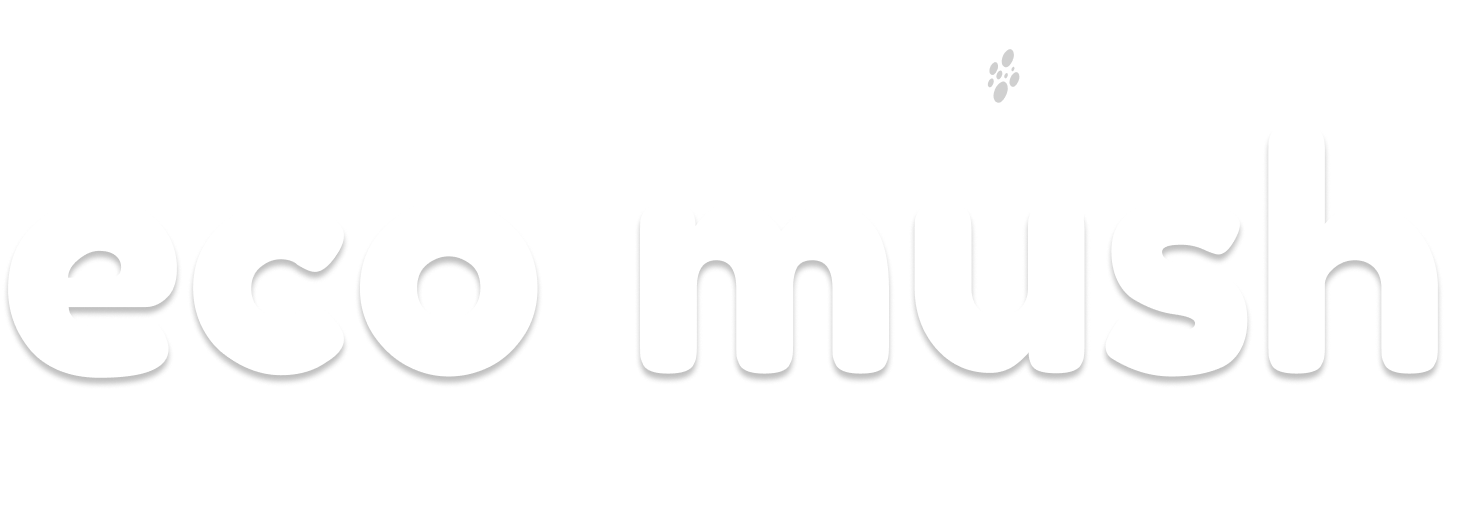
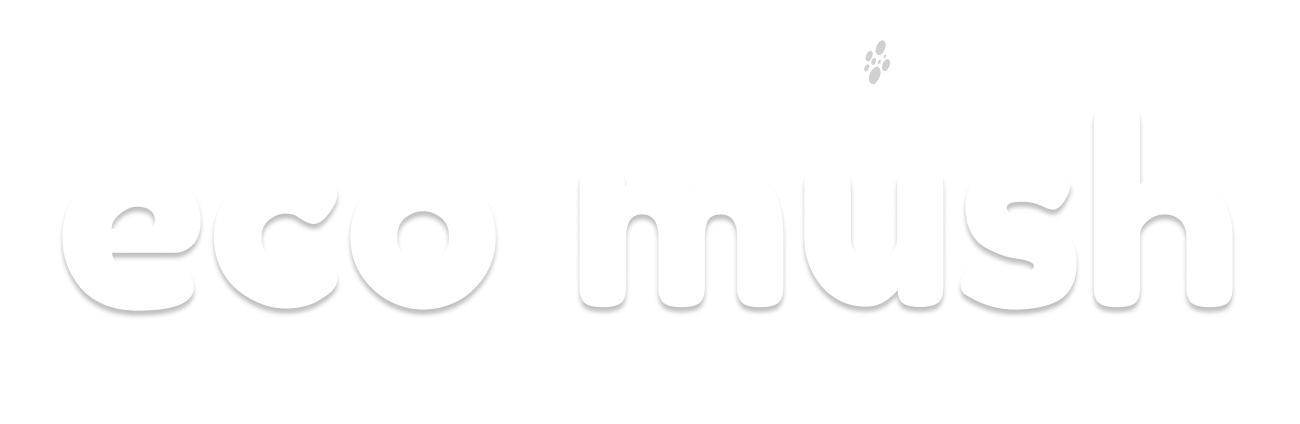
update hero image, journey contn

diff --git a/src/components/Recipes.jsx b/src/components/Recipes.jsx
@@ -1,5 +1,9 @@
 import React, { useState, useRef, useEffect } from 'react';
 import useScrollAnimation from '../hooks/useScrollAnimation';
+import cutletImage from '../assets/recipe/Cutlet.png';
+import momosImage from '../assets/recipe/Momos.png';
+import samosaImage from '../assets/recipe/samosa.png';
+import rollsImage from '../assets/recipe/Rolls.png';
 import './Recipes.css';
 
 const RecipeCard = ({ recipe, index, openRecipeModal }) => {
@@ -209,6 +213,120 @@ const Recipes = () => {
         "വെള്ളം വറ്റിയാൽ ഇറക്കി എടുക്കുക"
       ],
       youtubeVideo: "https://www.youtube.com/embed/IYPuWewIAto"
+    },
+    {
+      id: 7,
+      title: "മഷ്റൂം കട്ലറ്റ് (Mushroom Cutlet)",
+      description: "Crispy and delicious mushroom cutlets.",
+      image: cutletImage,
+      tags: ["Snack", "Crispy"],
+      ingredients: [
+        "മഷ്റൂം – 250 ഗ്രാം",
+        "ഉരുളക്കിഴങ്ങ് – 2 എണ്ണം (വേവിച്ചത്)",
+        "ഉള്ളി – 1 എണ്ണം (നരിഞ്ഞത്)",
+        "ഇഞ്ചി വെളുത്തുള്ളി പേസ്റ്റ് – 1 ടീസ്പൂൺ",
+        "മുളകുപൊടി – 1 ടീസ്പൂൺ",
+        "ഗരം മസാല – ½ ടീസ്പൂൺ",
+        "മഞ്ഞൾപൊടി – ¼ ടീസ്പൂൺ",
+        "ബ്രെഡ് ക്രമ്പ് – വേണ്ടത്ര",
+        "മുട്ട – 1-2 എണ്ണം",
+        "ഉപ്പ്, എണ്ണ"
+      ],
+      steps: [
+        "മഷ്റൂം കഴുകി നന്നായി അരിഞ്ഞ് വെയ്ക്കുക",
+        "വേവിച്ച ഉരുളക്കിഴങ്ങ് ചതച്ച് വെയ്ക്കുക",
+        "പാനിൽ എണ്ണ ചൂടാക്കി ഉള്ളി വറുത്ത് ഇഞ്ചി വെളുത്തുള്ളി പേസ്റ്റ് ചേർക്കുക",
+        "മഷ്റൂം ചേർത്ത് വേവിച്ച് മസാലകൾ ചേർത്ത് നന്നായി ഇളക്കുക",
+        "ഉരുളക്കിഴങ്ങും ചേർത്ത് നന്നായി ഇളക്കി കട്ലറ്റ് മിശ്രിതം തയ്യാറാക്കുക",
+        "ചെറിയ കട്ലറ്റ് ആകൃതിയിൽ ഉണ്ടാക്കി മുട്ടയിൽ മുക്കി ബ്രെഡ് ക്രമ്പിൽ ഉരുട്ടുക",
+        "എണ്ണയിൽ നന്നായി വറുത്ത് ഇറക്കി എടുക്കുക"
+      ],
+      youtubeVideo: "https://www.youtube.com/embed/OC9vBqS-6xw"
+    },
+    {
+      id: 8,
+      title: "മഷ്റൂം മോമോസ് (Mushroom Momos)",
+      description: "Steamed dumplings with mushroom filling.",
+      image: momosImage,
+      tags: ["Steamed", "Dumpling"],
+      ingredients: [
+        "മഷ്റൂം – 200 ഗ്രാം",
+        "അല്ലൂ പൊടി – 2 കപ്പ്",
+        "ഉള്ളി – 1 എണ്ണം (നരിഞ്ഞത്)",
+        "ഇഞ്ചി – 1 ടീസ്പൂൺ (നരിഞ്ഞത്)",
+        "വെളുത്തുള്ളി – 2-3 പൊത്ത് (നരിഞ്ഞത്)",
+        "പച്ചമുളക് – 1-2 എണ്ണം",
+        "സോയ സോസ് – 1 ടീസ്പൂൺ",
+        "ഉപ്പ്, കുരുമുളക് പൊടി"
+      ],
+      steps: [
+        "അല്ലൂ പൊടിയിൽ വെള്ളം ചേർത്ത് മൃദുവായ കുഴച്ചുമാറ്റം തയ്യാറാക്കുക",
+        "മഷ്റൂം കഴുകി നന്നായി അരിഞ്ഞ് വെയ്ക്കുക",
+        "പാനിൽ എണ്ണ ചൂടാക്കി ഉള്ളി, ഇഞ്ചി, വെളുത്തുള്ളി വറുക്കുക",
+        "മഷ്റൂം, പച്ചമുളക്, സോയ സോസ്, ഉപ്പ്, കുരുമുളക് പൊടി എന്നിവ ചേർത്ത് നന്നായി വേവിക്കുക",
+        "കുഴച്ചുമാറ്റത്തിൽ നിന്ന് ചെറിയ പാട്ടികൾ എടുത്ത് മഷ്റൂം മിശ്രിതം നിറച്ച് മോമോസ് ആകൃതിയിൽ ഉണ്ടാക്കുക",
+        "സ്റ്റീമറിൽ 10-12 മിനിറ്റ് വേവിക്കുക",
+        "ചൂടോടെ സോസുമായി വിളമ്പുക"
+      ],
+      youtubeVideo: "https://www.youtube.com/embed/WpZ3ym4M--Q"
+    },
+    {
+      id: 9,
+      title: "മഷ്റൂം സമോസ (Mushroom Samosa)",
+      description: "Crispy samosas with mushroom filling.",
+      image: samosaImage,
+      tags: ["Snack", "Fried"],
+      ingredients: [
+        "മഷ്റൂം – 200 ഗ്രാം",
+        "മൈദ – 2 കപ്പ്",
+        "ഉള്ളി – 1 എണ്ണം (നരിഞ്ഞത്)",
+        "ഇഞ്ചി വെളുത്തുള്ളി പേസ്റ്റ് – 1 ടീസ്പൂൺ",
+        "മുളകുപൊടി – 1 ടീസ്പൂൺ",
+        "ഗരം മസാല – ½ ടീസ്പൂൺ",
+        "മഞ്ഞൾപൊടി – ¼ ടീസ്പൂൺ",
+        "ധന്യപ്പൊടി – ½ ടീസ്പൂൺ",
+        "ഉപ്പ്, എണ്ണ"
+      ],
+      steps: [
+        "മൈദയിൽ എണ്ണ, ഉപ്പ്, വെള്ളം ചേർത്ത് മൃദുവായ കുഴച്ചുമാറ്റം തയ്യാറാക്കുക",
+        "മഷ്റൂം കഴുകി നന്നായി അരിഞ്ഞ് വെയ്ക്കുക",
+        "പാനിൽ എണ്ണ ചൂടാക്കി ഉള്ളി വറുത്ത് ഇഞ്ചി വെളുത്തുള്ളി പേസ്റ്റ് ചേർക്കുക",
+        "മഷ്റൂം ചേർത്ത് വേവിച്ച് മസാലകൾ ചേർത്ത് നന്നായി വറുത്ത് ഇറക്കി എടുക്കുക",
+        "കുഴച്ചുമാറ്റത്തിൽ നിന്ന് ചെറിയ പാട്ടികൾ എടുത്ത് മഷ്റൂം മിശ്രിതം നിറച്ച് സമോസ ആകൃതിയിൽ ഉണ്ടാക്കുക",
+        "എണ്ണയിൽ നന്നായി വറുത്ത് സ്വർണ്ണനിറമാകുന്നത് വരെ വേവിക്കുക",
+        "ചൂടോടെ ചട്നിയുമായി വിളമ്പുക"
+      ],
+      youtubeVideo: "https://www.youtube.com/embed/_sIzNPIYOFM"
+    },
+    {
+      id: 10,
+      title: "മഷ്റൂം റോള്സ് (Mushroom Rolls)",
+      description: "Delicious mushroom rolls with crispy outer layer.",
+      image: rollsImage,
+      tags: ["Snack", "Roll"],
+      ingredients: [
+        "മഷ്റൂം – 200 ഗ്രാം",
+        "പറോട്ട – 8-10 എണ്ണം",
+        "ഉള്ളി – 1 എണ്ണം (നരിഞ്ഞത്)",
+        "ഇഞ്ചി വെളുത്തുള്ളി പേസ്റ്റ് – 1 ടീസ്പൂൺ",
+        "മുളകുപൊടി – 1 ടീസ്പൂൺ",
+        "ഗരം മസാല – ½ ടീസ്പൂൺ",
+        "മഞ്ഞൾപൊടി – ¼ ടീസ്പൂൺ",
+        "ധന്യപ്പൊടി – ½ ടീസ്പൂൺ",
+        "മുട്ട – 1-2 എണ്ണം",
+        "ബ്രെഡ് ക്രമ്പ് – വേണ്ടത്ര",
+        "ഉപ്പ്, എണ്ണ"
+      ],
+      steps: [
+        "മഷ്റൂം കഴുകി നന്നായി അരിഞ്ഞ് വെയ്ക്കുക",
+        "പാനിൽ എണ്ണ ചൂടാക്കി ഉള്ളി വറുത്ത് ഇഞ്ചി വെളുത്തുള്ളി പേസ്റ്റ് ചേർക്കുക",
+        "മഷ്റൂം ചേർത്ത് വേവിച്ച് മസാലകൾ ചേർത്ത് നന്നായി വറുത്ത് ഇറക്കി എടുക്കുക",
+        "പോറോട്ടയിൽ മഷ്റൂം മിശ്രിതം നിറച്ച് റോൾ ആകൃതിയിൽ ഉണ്ടാക്കുക",
+        "മുട്ടയിൽ മുക്കി ബ്രെഡ് ക്രമ്പിൽ ഉരുട്ടുക",
+        "എണ്ണയിൽ നന്നായി വറുത്ത് സ്വർണ്ണനിറമാകുന്നത് വരെ വേവിക്കുക",
+        "ചൂടോടെ കെച്ചപ്പ് സോസുമായി വിളമ്പുക"
+      ],
+      youtubeVideo: "https://www.youtube.com/embed/YztBIZogXIU"
     }
   ];
 

diff --git a/src/components/WhatsAppButton.css b/src/components/WhatsAppButton.css
@@ -4,44 +4,94 @@
   right: 30px;
   width: 56px;
   height: 56px;
-  background: #25D366;
+  background: linear-gradient(135deg, #25D366, #20BA5A);
   color: white;
-  border: none;
+  border: 3px solid rgba(138, 255, 109, 0.9);
   border-radius: 50%;
   cursor: pointer;
   display: flex;
   align-items: center;
   justify-content: center;
-  box-shadow: 0 4px 15px rgba(37, 211, 102, 0.4);
+  box-shadow: 0 4px 20px rgba(37, 211, 102, 0.5), 0 0 0 0 rgba(37, 211, 102, 0.7);
   z-index: 999;
-  transition: all 0.3s ease;
-  animation: pulse 2s infinite;
+  transition: all 0.3s cubic-bezier(0.4, 0, 0.2, 1);
+  animation: float 3s ease-in-out infinite, pulseGlow 2s ease-in-out infinite;
+  overflow: visible;
+}
+
+.whatsapp-button::before {
+  content: '';
+  position: absolute;
+  top: 50%;
+  left: 50%;
+  width: 100%;
+  height: 100%;
+  border-radius: 50%;
+  background: rgba(255, 255, 255, 0.3);
+  transform: translate(-50%, -50%) scale(0);
+  transition: transform 0.6s ease-out;
+  pointer-events: none;
+}
+
+.whatsapp-button:hover::before {
+  transform: translate(-50%, -50%) scale(1.5);
+  opacity: 0;
 }
 
 .whatsapp-button:hover {
-  background: #20BA5A;
-  transform: translateY(-5px) scale(1.1);
-  box-shadow: 0 6px 20px rgba(37, 211, 102, 0.6);
+  background: linear-gradient(135deg, #20BA5A, #1DA851);
+  border-color: rgba(255, 255, 255, 1);
+  transform: translateY(-8px) scale(1.15) rotate(5deg);
+  box-shadow: 0 8px 30px rgba(37, 211, 102, 0.7), 0 0 20px rgba(37, 211, 102, 0.5);
+  animation: float 3s ease-in-out infinite, pulseGlow 1.5s ease-in-out infinite;
 }
 
 .whatsapp-button:active {
-  transform: translateY(-2px) scale(1.05);
+  transform: translateY(-5px) scale(1.1) rotate(-5deg);
+  box-shadow: 0 4px 15px rgba(37, 211, 102, 0.6);
 }
 
 .whatsapp-button svg {
   width: 28px;
   height: 28px;
+  transition: transform 0.3s ease;
+  filter: drop-shadow(0 2px 4px rgba(0, 0, 0, 0.2));
 }
 
-@keyframes pulse {
-  0% {
-    box-shadow: 0 4px 15px rgba(37, 211, 102, 0.4);
+.whatsapp-button:hover svg {
+  transform: scale(1.1) rotate(-5deg);
+}
+
+@keyframes float {
+  0%, 100% {
+    transform: translateY(0px) translateX(0);
   }
   50% {
-    box-shadow: 0 4px 20px rgba(37, 211, 102, 0.6);
+    transform: translateY(-10px) translateX(0);
   }
-  100% {
-    box-shadow: 0 4px 15px rgba(37, 211, 102, 0.4);
+}
+
+@keyframes pulseGlow {
+  0%, 100% {
+    box-shadow: 0 4px 20px rgba(37, 211, 102, 0.5), 0 0 0 0 rgba(37, 211, 102, 0.7);
+  }
+  50% {
+    box-shadow: 0 4px 25px rgba(37, 211, 102, 0.6), 0 0 0 10px rgba(37, 211, 102, 0);
+  }
+}
+
+@keyframes shake {
+  0%, 100% {
+    transform: translateY(-8px) translateX(0) scale(1.15) rotate(5deg);
+  }
+  25% {
+    transform: translateY(-8px) translateX(-2px) scale(1.15) rotate(-5deg);
+  }
+  50% {
+    transform: translateY(-8px) translateX(0) scale(1.15) rotate(5deg);
+  }
+  75% {
+    transform: translateY(-8px) translateX(2px) scale(1.15) rotate(-5deg);
   }
 }
 

diff --git a/src/components/Journey.jsx b/src/components/Journey.jsx
@@ -28,13 +28,16 @@ const Journey = () => {
             </h2>
             <div className="story-description">
               <p>
-                I began my career as a software developer, deeply rooted in technology and problem-solving. 
-                During the work-from-home phase of my job, I started reflecting on creating something of my own, 
-                and that curiosity led me to explore mushroom farming. My passion for sustainability and healthy 
-                living inspired me to take this new path, and the idea of providing people with fresh, high-quality 
-                food motivated me even more. This journey from coding to cultivation gave birth to Eco Mush, a 
-                startup built on eco-friendly and organic practices. It reflects my adaptability, innovation, and 
-                vision to bring healthy, sustainable produce to the community through modern, high-tech farming.
+              EcoMush didn’t just start as a business — it grew from a dream shaped by passion, creativity, and purpose.
+I began my career as a software developer, later discovering a deep love for UI/UX design.
+Even while working full-time, I kept learning and growing creatively.
+During work-from-home days, I used my free time to start a freelance design studio.
+Working with clients taught me how brands are built and how stories shape identity.
+This journey pushed me to create something meaningful and health-focused.
+My research led me to the world of mushroom farming — sustainable, nutritious, and planet-friendly.
+Mushrooms aligned with my belief: health should be a routine, not an option.
+Combining my design passion, technical discipline, and love for wellness, EcoMush was born.
+Today, EcoMush is dedicated to bringing clean, fresh, protein-rich mushrooms to every home.
               </p>
             </div>
             <div className="author-info">

diff --git a/src/components/About.jsx b/src/components/About.jsx
@@ -14,7 +14,7 @@ const About = () => {
             ref={textRef}
             className={`about-text fade-in-left ${textVisible ? 'visible' : ''}`}
           >
-            <h2 >Ecomush : The Fresh Mushrooms<br />in Kerala</h2>
+            <h2 >Ecomush : The Fresh Mushrooms<br />in Kannur</h2>
             <h3 ></h3>
             <div className="about-description">
               <p>

diff --git a/src/components/Hero.css b/src/components/Hero.css
@@ -20,7 +20,7 @@
 
 .hero-image-container {
   width: 100%;
-  max-width: 600px;
+  max-width: 700px;
   height: auto;
   display: flex;
   justify-content: center;
